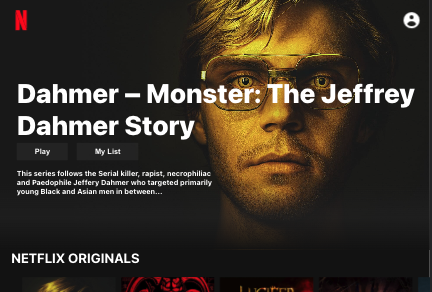
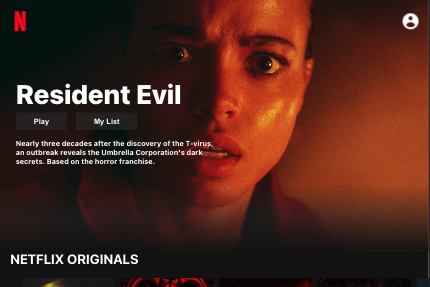
cleanup

diff --git a/index.html b/index.html
@@ -114,47 +114,6 @@
 
     </div><!-- End About Me -->
 
-    <!-- ======= Counts ======= -->
-    <!-- <div class="counts container">
-
-      <div class="row">
-
-        <div class="col-lg-3 col-md-6">
-          <div class="count-box">
-            <i class="bi bi-emoji-smile"></i>
-            <span data-purecounter-start="0" data-purecounter-end="232" data-purecounter-duration="1" class="purecounter"></span>
-            <p>Happy Clients</p>
-          </div>
-        </div>
-
-        <div class="col-lg-3 col-md-6 mt-5 mt-md-0">
-          <div class="count-box">
-            <i class="bi bi-journal-richtext"></i>
-            <span data-purecounter-start="0" data-purecounter-end="521" data-purecounter-duration="1" class="purecounter"></span>
-            <p>Projects</p>
-          </div>
-        </div>
-
-        <div class="col-lg-3 col-md-6 mt-5 mt-lg-0">
-          <div class="count-box">
-            <i class="bi bi-headset"></i>
-            <span data-purecounter-start="0" data-purecounter-end="1463" data-purecounter-duration="1" class="purecounter"></span>
-            <p>Hours Of Support</p>
-          </div>
-        </div>
-
-        <div class="col-lg-3 col-md-6 mt-5 mt-lg-0">
-          <div class="count-box">
-            <i class="bi bi-award"></i>
-            <span data-purecounter-start="0" data-purecounter-end="24" data-purecounter-duration="1" class="purecounter"></span>
-            <p>Awards</p>
-          </div>
-        </div>
-
-      </div>
-
-    </div>End Counts -->
-
     <!-- ======= Skills  ======= -->
     <div class="skills container">
 
@@ -250,146 +209,9 @@
             <h3>Real Estate</h3>
           </div>
         </div>
-        <!-- <div class="col-lg-3 col-md-4 mt-4">
-          <div class="icon-box">
-            <i class="ri-database-2-line" style="color: #47aeff;"></i>
-            <h3>Nemo Enim</h3>
-          </div>
-        </div>
-        <div class="col-lg-3 col-md-4 mt-4">
-          <div class="icon-box">
-            <i class="ri-gradienter-line" style="color: #ffa76e;"></i>
-            <h3>Eiusmod Tempor</h3>
-          </div>
-        </div>
-        <div class="col-lg-3 col-md-4 mt-4">
-          <div class="icon-box">
-            <i class="ri-file-list-3-line" style="color: #11dbcf;"></i>
-            <h3>Midela Teren</h3>
-          </div>
-        </div>
-        <div class="col-lg-3 col-md-4 mt-4">
-          <div class="icon-box">
-            <i class="ri-calendar-todo-line" style="color: #e80368;"></i>
-            <h3>Real Estate</h3>
-          </div>
-        </div>
-        <div class="col-lg-3 col-md-4 mt-4">
-          <div class="icon-box">
-            <i class="ri-anchor-line" style="color: #b2904f;"></i>
-            <h3>Dirada Pack</h3>
-          </div>
-        </div>
-        <div class="col-lg-3 col-md-4 mt-4">
-          <div class="icon-box">
-            <i class="ri-bar-chart-box-line" style="color: #5578ff;"></i>
-            <h3>Music</h3>
-          </div>
-        </div>
-        <div class="col-lg-3 col-md-4 mt-4">
-          <div class="icon-box">
-            <i class="ri-base-station-line" style="color: #ff5828;"></i>
-            <h3>Verdo Park</h3>
-          </div>
-        </div>
-        <div class="col-lg-3 col-md-4 mt-4">
-          <div class="icon-box">
-            <i class="ri-fingerprint-line" style="color: #29cc61;"></i>
-            <h3>Flavor Nivelanda</h3>
-          </div>
-        </div> -->
       </div>
 
     </div><!-- End Interests -->
-
-    <!-- ======= Testimonials ======= -->
-    <!-- <div class="testimonials container">
-
-      <div class="section-title">
-        <h2>Testimonials</h2>
-      </div>
-
-      <div class="testimonials-slider swiper" data-aos="fade-up" data-aos-delay="100">
-        <div class="swiper-wrapper">
-
-          <div class="swiper-slide">
-            <div class="testimonial-item">
-              <p>
-                <i class="bx bxs-quote-alt-left quote-icon-left"></i>
-                Proin iaculis purus consequat sem cure digni ssim donec porttitora entum suscipit rhoncus. Accusantium quam, ultricies eget id, aliquam eget nibh et. Maecen aliquam, risus at semper.
-                <i class="bx bxs-quote-alt-right quote-icon-right"></i>
-              </p>
-              <img src="assets/img/testimonials/testimonials-1.jpg" class="testimonial-img" alt="">
-              <h3>Saul Goodman</h3>
-              <h4>Ceo &amp; Founder</h4>
-            </div>
-          </div> -->
-          <!-- End testimonial item -->
-
-          <!-- <div class="swiper-slide">
-            <div class="testimonial-item">
-              <p>
-                <i class="bx bxs-quote-alt-left quote-icon-left"></i>
-                Export tempor illum tamen malis malis eram quae irure esse labore quem cillum quid cillum eram malis quorum velit fore eram velit sunt aliqua noster fugiat irure amet legam anim culpa.
-                <i class="bx bxs-quote-alt-right quote-icon-right"></i>
-              </p>
-              <img src="assets/img/testimonials/testimonials-2.jpg" class="testimonial-img" alt="">
-              <h3>Sara Wilsson</h3>
-              <h4>Designer</h4>
-            </div>
-          </div> -->
-          <!-- End testimonial item -->
-
-          <!-- <div class="swiper-slide">
-            <div class="testimonial-item">
-              <p>
-                <i class="bx bxs-quote-alt-left quote-icon-left"></i>
-                Enim nisi quem export duis labore cillum quae magna enim sint quorum nulla quem veniam duis minim tempor labore quem eram duis noster aute amet eram fore quis sint minim.
-                <i class="bx bxs-quote-alt-right quote-icon-right"></i>
-              </p>
-              <img src="assets/img/testimonials/testimonials-3.jpg" class="testimonial-img" alt="">
-              <h3>Jena Karlis</h3>
-              <h4>Store Owner</h4>
-            </div>
-          </div> -->
-          <!-- End testimonial item -->
-
-          <!-- <div class="swiper-slide">
-            <div class="testimonial-item">
-              <p>
-                <i class="bx bxs-quote-alt-left quote-icon-left"></i>
-                Fugiat enim eram quae cillum dolore dolor amet nulla culpa multos export minim fugiat minim velit minim dolor enim duis veniam ipsum anim magna sunt elit fore quem dolore labore illum veniam.
-                <i class="bx bxs-quote-alt-right quote-icon-right"></i>
-              </p>
-              <img src="assets/img/testimonials/testimonials-4.jpg" class="testimonial-img" alt="">
-              <h3>Matt Brandon</h3>
-              <h4>Freelancer</h4>
-            </div>
-          </div> -->
-          <!-- End testimonial item -->
-
-          <!-- <div class="swiper-slide">
-            <div class="testimonial-item">
-              <p>
-                <i class="bx bxs-quote-alt-left quote-icon-left"></i>
-                Quis quorum aliqua sint quem legam fore sunt eram irure aliqua veniam tempor noster veniam enim culpa labore duis sunt culpa nulla illum cillum fugiat legam esse veniam culpa fore nisi cillum quid.
-                <i class="bx bxs-quote-alt-right quote-icon-right"></i>
-              </p>
-              <img src="assets/img/testimonials/testimonials-5.jpg" class="testimonial-img" alt="">
-              <h3>John Larson</h3>
-              <h4>Entrepreneur</h4>
-            </div> -->
-          </div><!-- End testimonial item -->
-
-        </div>
-        <div class="swiper-pagination"></div>
-      </div>
-
-      <div class="owl-carousel testimonials-carousel">
-
-      </div>
-
-    </div><!-- End Testimonials  -->
 
   </section><!-- End About Section -->
 
@@ -404,19 +226,6 @@
 
       <div class="row">
         <div class="col-lg-6">
-          <!-- <h3 class="resume-title">Sumary</h3>
-          <div class="resume-item pb-0">
-            <h4>Alice Barkley</h4>
-            <p><em>Innovative and deadline-driven Graphic Designer with 3+ years of experience designing and developing user-centered digital/print marketing material from initial concept to final, polished deliverable.</em></p>
-            <p>
-            <ul>
-              <li>Portland par 127,Orlando, FL</li>
-              <li>(123) 456-7891</li>
-              <li>alice.barkley@example.com</li>
-            </ul>
-            </p>
-          </div> -->
-
           <h3 class="resume-title">Education</h3>
           <div class="resume-item">
             <h4>Software Engineering Certificate</h4>
@@ -505,41 +314,7 @@
             <p>Node, Express, Sequelize, Postgresql</p>
           </div>
         </div>
-
-        <!-- <div class="col-lg-4 col-md-6 d-flex align-items-stretch mt-4 mt-lg-0">
-          <div class="icon-box">
-            <div class="icon"><i class="bx bx-tachometer"></i></div>
-            <h4><a href="">Magni Dolores</a></h4>
-            <p>Excepteur sint occaecat cupidatat non proident, sunt in culpa qui officia</p>
-          </div>
-        </div>
-
-        <div class="col-lg-4 col-md-6 d-flex align-items-stretch mt-4">
-          <div class="icon-box">
-            <div class="icon"><i class="bx bx-world"></i></div>
-            <h4><a href="">Nemo Enim</a></h4>
-            <p>At vero eos et accusamus et iusto odio dignissimos ducimus qui blanditiis</p>
-          </div>
-        </div>
-
-        <div class="col-lg-4 col-md-6 d-flex align-items-stretch mt-4">
-          <div class="icon-box">
-            <div class="icon"><i class="bx bx-slideshow"></i></div>
-            <h4><a href="">Dele cardo</a></h4>
-            <p>Quis consequatur saepe eligendi voluptatem consequatur dolor consequuntur</p>
-          </div>
-        </div>
-
-        <div class="col-lg-4 col-md-6 d-flex align-items-stretch mt-4">
-          <div class="icon-box">
-            <div class="icon"><i class="bx bx-arch"></i></div>
-            <h4><a href="">Divera don</a></h4>
-            <p>Modi nostrum vel laborum. Porro fugit error sit minus sapiente sit aspernatur</p>
-          </div>
-        </div> -->
-
       </div>
-
     </div>
   </section><!-- End Services Section -->
 
@@ -565,20 +340,6 @@
 
       <div class="row portfolio-container">
 
-        <!-- <div class="col-lg-4 col-md-6 portfolio-item filter-app">
-          <div class="portfolio-wrap">
-            <img src="assets/img/portfolio/portfolio-1.jpg" class="img-fluid" alt="">
-            <div class="portfolio-info">
-              <h4>App 1</h4>
-              <p>App</p>
-              <div class="portfolio-links">
-                <a href="assets/img/portfolio/portfolio-1.jpg" data-gallery="portfolioGallery" class="portfolio-lightbox" title="App 1"><i class="bx bx-plus"></i></a>
-                <a href="portfolio-details.html" data-gallery="portfolioDetailsGallery" data-glightbox="type: external" class="portfolio-details-lightbox" title="Portfolio Details"><i class="bx bx-link"></i></a>
-              </div>
-            </div>
-          </div>
-        </div> -->
-
         <div class="col-lg-4 col-md-6 portfolio-item filter-completed">
           <div class="portfolio-wrap">
             <img id="netflix" class="portfolio-main" src="assets/img/portfolio/media.png" class="img-fluid" alt="">
@@ -586,26 +347,12 @@
               <h4>Media</h4>
               <p>Netflix Clone</p>
               <div class="portfolio-links">
-                <a href="assets/img/portfolio/netClone2.png" data-gallery="portfolioGallery" class="portfolio-lightbox" title="Netflix Clone"><i class="bx bx-plus"></i></a>
+                <a href="assets/img/portfolio/netClone3.png" data-gallery="portfolioGallery" class="portfolio-lightbox" title="Netflix Clone"><i class="bx bx-plus"></i></a>
                 <a href="portfolio-details-netflix.html" data-gallery="portfolioDetailsGallery" data-glightbox="type: external" class="portfolio-details-lightbox" title="Portfolio Details"><i class="bx bx-link"></i></a>
               </div>
             </div>
           </div>
         </div>
-
-        <!-- <div class="col-lg-4 col-md-6 portfolio-item filter-app">
-          <div class="portfolio-wrap">
-            <img src="assets/img/portfolio/portfolio-3.jpg" class="img-fluid" alt="">
-            <div class="portfolio-info">
-              <h4>App 2</h4>
-              <p>App</p>
-              <div class="portfolio-links">
-                <a href="assets/img/portfolio/portfolio-3.jpg" data-gallery="portfolioGallery" class="portfolio-lightbox" title="App 2"><i class="bx bx-plus"></i></a>
-                <a href="portfolio-details.html" data-gallery="portfolioDetailsGallery" data-glightbox="type: external" class="portfolio-details-lightbox" title="Portfolio Details"><i class="bx bx-link"></i></a>
-              </div>
-            </div>
-          </div>
-        </div> -->
 
         <div class="col-lg-4 col-md-6 portfolio-item filter-current">
           <div class="portfolio-wrap">
@@ -634,63 +381,6 @@
             </div>
           </div>
         </div>
-
-        <!-- <div class="col-lg-4 col-md-6 portfolio-item filter-app">
-          <div class="portfolio-wrap">
-            <img src="assets/img/portfolio/portfolio-6.jpg" class="img-fluid" alt="">
-            <div class="portfolio-info">
-              <h4>App 3</h4>
-              <p>App</p>
-              <div class="portfolio-links">
-                <a href="assets/img/portfolio/portfolio-6.jpg" data-gallery="portfolioGallery" class="portfolio-lightbox" title="App 3"><i class="bx bx-plus"></i></a>
-                <a href="portfolio-details.html" data-gallery="portfolioDetailsGallery" data-glightbox="type: external" class="portfolio-details-lightbox" title="Portfolio Details"><i class="bx bx-link"></i></a>
-              </div>
-            </div>
-          </div>
-        </div> -->
-
-        <!-- <div class="col-lg-4 col-md-6 portfolio-item filter-current">
-          <div class="portfolio-wrap">
-            <img src="assets/img/portfolio/portfolio-7.jpg" class="img-fluid" alt="">
-            <div class="portfolio-info">
-              <h4>Card 1</h4>
-              <p>Card</p>
-              <div class="portfolio-links">
-                <a href="assets/img/portfolio/portfolio-7.jpg" data-gallery="portfolioGallery" class="portfolio-lightbox" title="Card 1"><i class="bx bx-plus"></i></a>
-                <a href="portfolio-details.html" data-gallery="portfolioDetailsGallery" data-glightbox="type: external" class="portfolio-details-lightbox" title="Portfolio Details"><i class="bx bx-link"></i></a>
-              </div>
-            </div>
-          </div>
-        </div> -->
-
-        <!-- <div class="col-lg-4 col-md-6 portfolio-item filter-current">
-          <div class="portfolio-wrap">
-            <img src="assets/img/portfolio/portfolio-8.jpg" class="img-fluid" alt="">
-            <div class="portfolio-info">
-              <h4>Card 3</h4>
-              <p>Card</p>
-              <div class="portfolio-links">
-                <a href="assets/img/portfolio/portfolio-8.jpg" data-gallery="portfolioGallery" class="portfolio-lightbox" title="Card 3"><i class="bx bx-plus"></i></a>
-                <a href="portfolio-details.html" data-gallery="portfolioDetailsGallery" data-glightbox="type: external" class="portfolio-details-lightbox" title="Portfolio Details"><i class="bx bx-link"></i></a>
-              </div>
-            </div>
-          </div>
-        </div> -->
-
-        <!-- <div class="col-lg-4 col-md-6 portfolio-item filter-completed">
-          <div class="portfolio-wrap">
-            <img src="assets/img/portfolio/portfolio-9.jpg" class="img-fluid" alt="">
-            <div class="portfolio-info">
-              <h4>Web 3</h4>
-              <p>Web</p>
-              <div class="portfolio-links">
-                <a href="assets/img/portfolio/portfolio-9.jpg" data-gallery="portfolioGallery" class="portfolio-lightbox" title="Web 3"><i class="bx bx-plus"></i></a>
-                <a href="portfolio-details.html" data-gallery="portfolioDetailsGallery" data-glightbox="type: external" class="portfolio-details-lightbox" title="Portfolio Details"><i class="bx bx-link"></i></a>
-              </div>
-            </div>
-          </div>
-        </div> -->
-
       </div>
 
     </div>

diff --git a/assets/css/style.css b/assets/css/style.css
@@ -974,7 +974,7 @@ section .container {
 
 .portfolio-image{
   object-fit: contain;
-  width: 100%;
+  width: 85%;
   max-height: 400px;
 }
 
